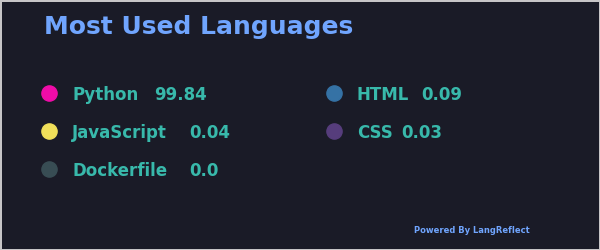
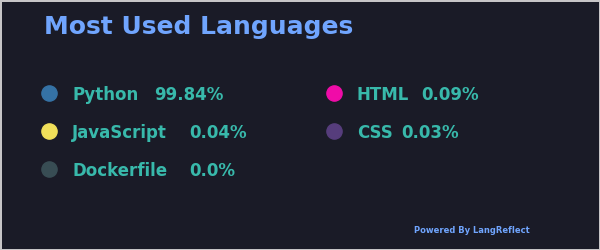
% added to the chart

diff --git a/langChart.py b/langChart.py
@@ -34,29 +34,28 @@ total = sum(language_data.values())
 languages = list(language_data.keys())
 percentages = [round((size / total) * 100, 2) for size in language_data.values()]
 
+percentages = [str(i) + "%" for i in percentages]
 
 # Limit to top 6 for readability
 languages = languages[:6]
 percentages = percentages[:6]
-# Chart style
+
+# Plotting the Chart
 fig, ax = plt.subplots(figsize=(6, 2.5))
 fig.patch.set_facecolor("#1a1b27")  # GitHub dark background
 ax.set_facecolor("#1a1b27")
 ax.set_xlim(0, 1)
 ax.set_ylim(0, 1)
 ax.axis("off")
+for spine in ax.spines.values():
+    spine.set_visible(False)
 
-# Colors for the dots and bars 
-colors = ["#f00ca8", "#3572A5", "#f1e05a", "#563d7c", "#384d54", "#ff9900"]
+# Colors for the circles 
+colors = ["#3572A5", "#f00ca8", "#f1e05a", "#563d7c", "#384d54", "#ff9900"]
 
 # Title 
 ax.text(0.05, 1.05, "Most Used Languages", fontsize=18, color="#70a5fe", fontweight="bold")
 ax.text(0.7, 0, "Powered By LangReflect", fontsize=6, color= "#70a5fe", fontweight="bold")
-
-
-
-for spine in ax.spines.values():
-    spine.set_visible(False)
 
 l_offset = 0
 r_offset = 0
